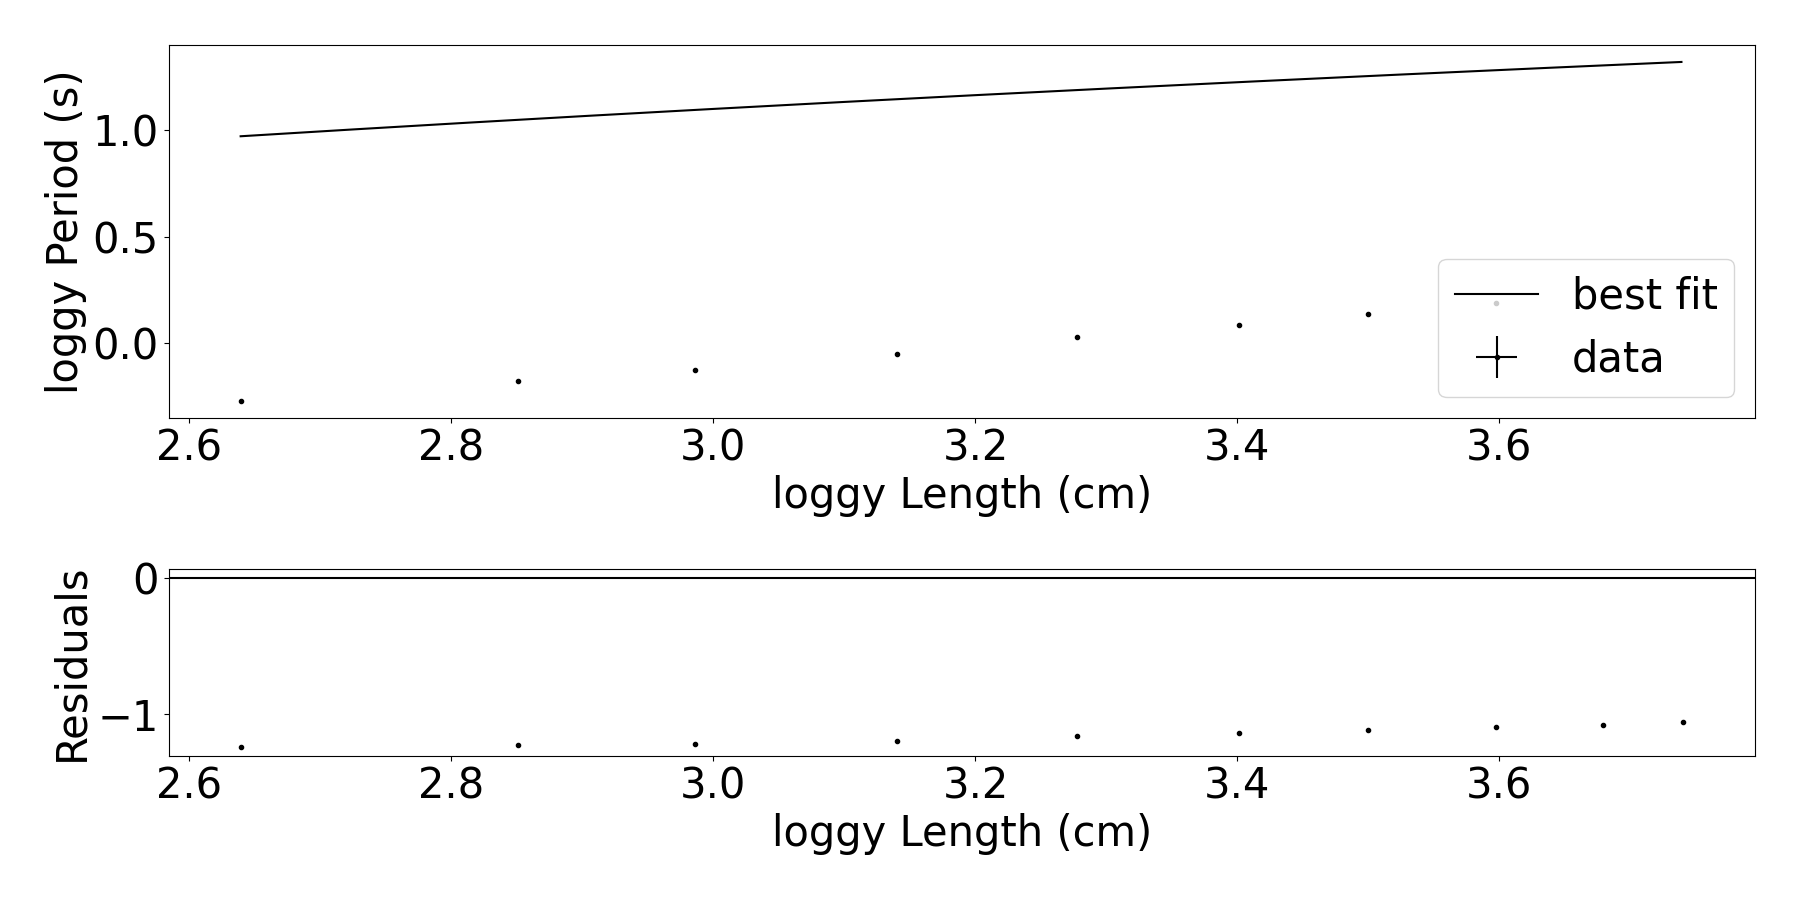
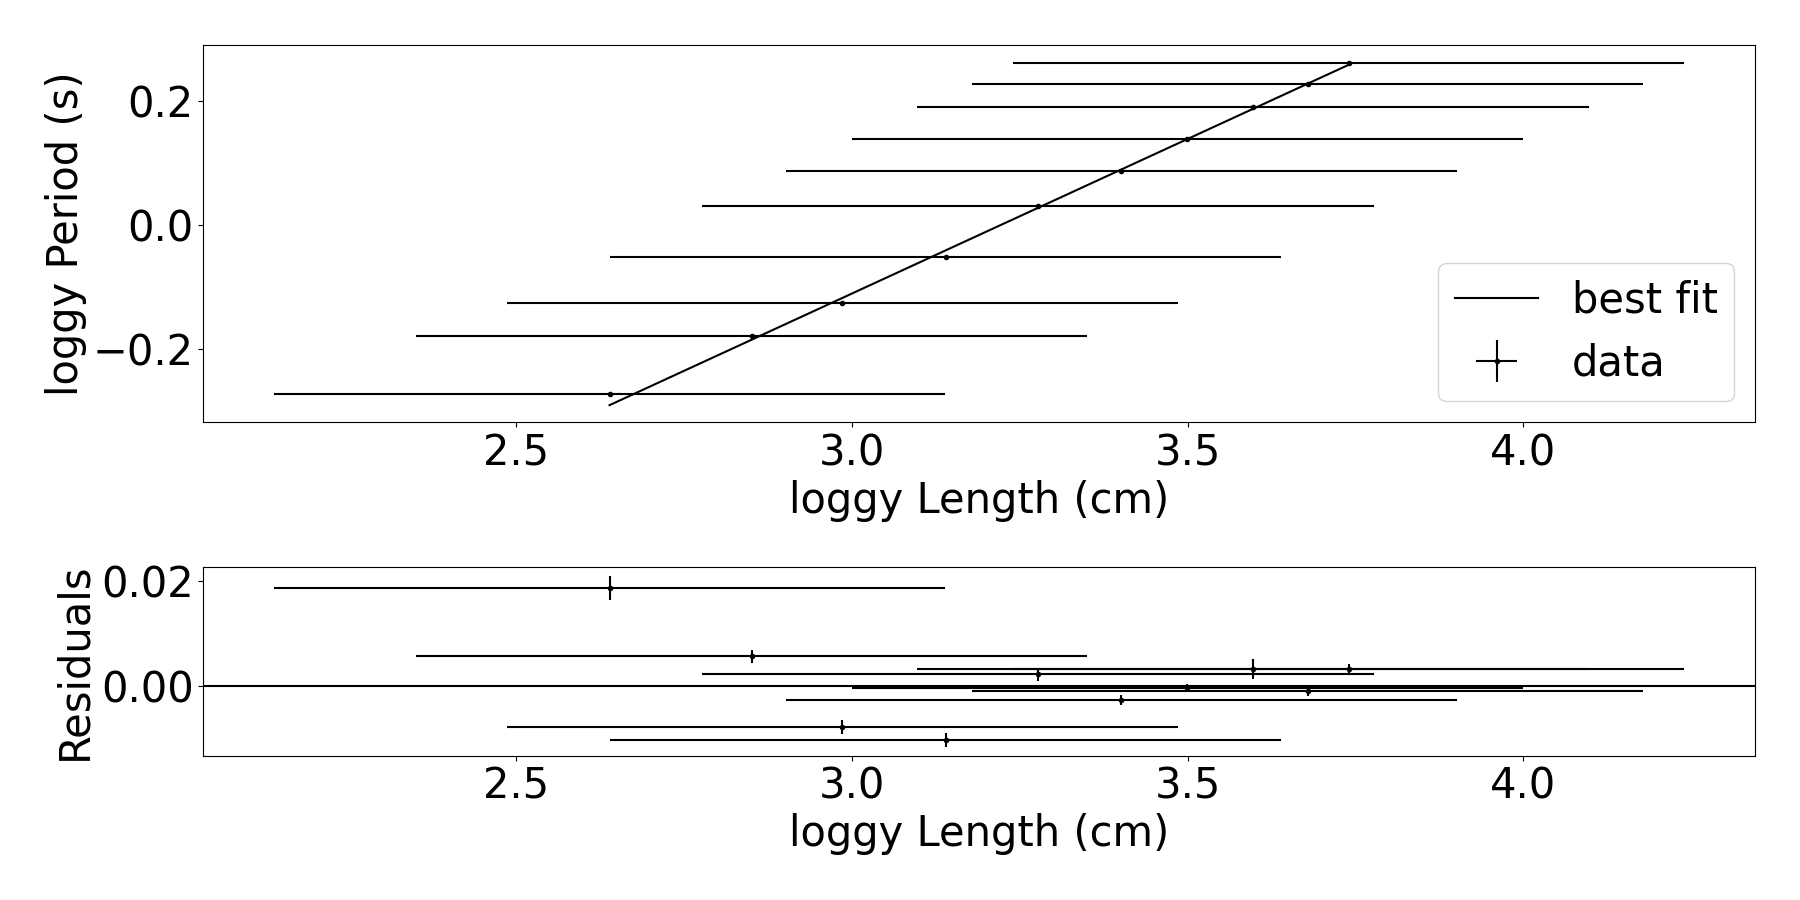
attending the praxis lecture only physically

diff --git a/yippee3.py b/yippee3.py
@@ -58,8 +58,8 @@ def load_period_vs_length(filename):
     ), (
         np.log(lengths),
         np.log(mean_periods),
-        [0] * len(lengths), # TODO: FIGURE OUT WTF TO DO WITH THESE ERROR BARS
-        [0] * len(lengths), # TODO: FIGURE OUT WTF TO DO WITH THESE ERROR BARS
+        np.array(length_error), # TODO: FIGURE OUT WTF TO DO WITH THESE ERROR BARS
+        np.array(period_error), # TODO: FIGURE OUT WTF TO DO WITH THESE ERROR BARS
     )
 
 def plot_fit(my_func, xdata, ydata, xerror=None, yerror=None, init_guess=None, font_size=30,
@@ -150,10 +150,11 @@ def power_series(L, k, n):
 """
 T = k * L ** n
 logT = log(k * L ** n)
-     = nlogk + nlogL
+     = logk + nlogL
 """
-def log_line(L, k, n):
-    return n * np.log(k) + n * np.log(L)
+
+def line(x, b, m):
+    return m * x + b
 
 input_dir = Path(__file__).parent / "input-files"
 if __name__ == '__main__':
@@ -163,7 +164,7 @@ if __name__ == '__main__':
              xlabel="Length (cm)",
              ylabel="Period (s)",
              output_filename = "period vs length")
-    plot_fit(log_line, 
+    plot_fit(line, 
              *log_tvsl_data,
              xlabel="loggy Length (cm)",
              ylabel="loggy Period (s)",
